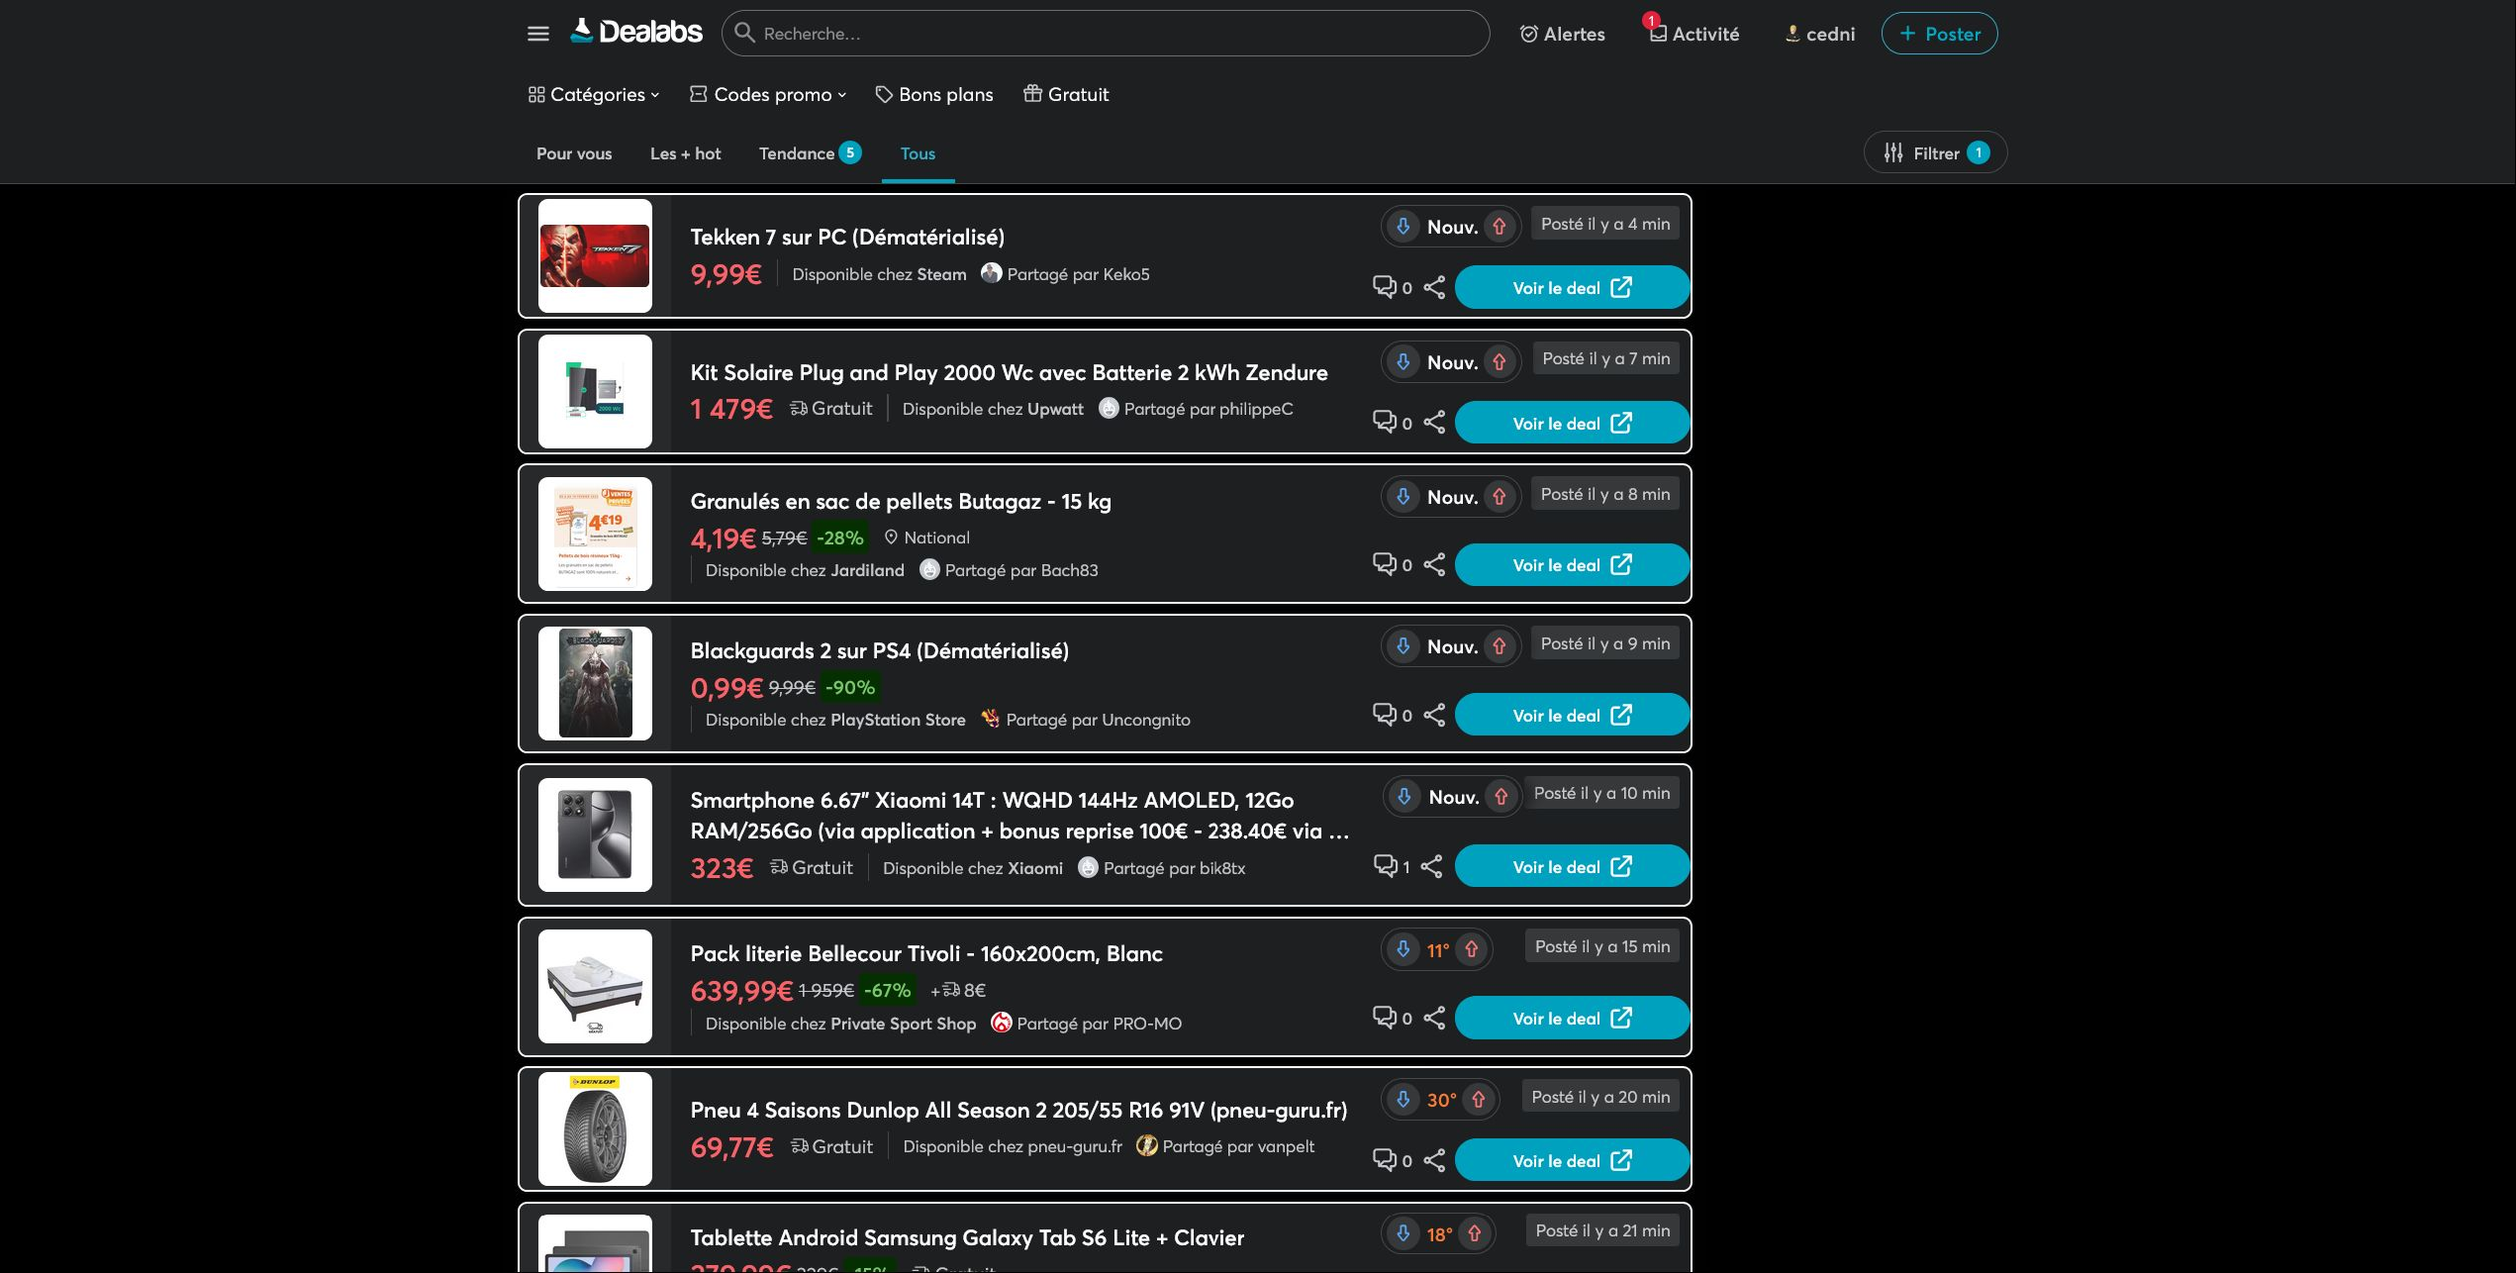
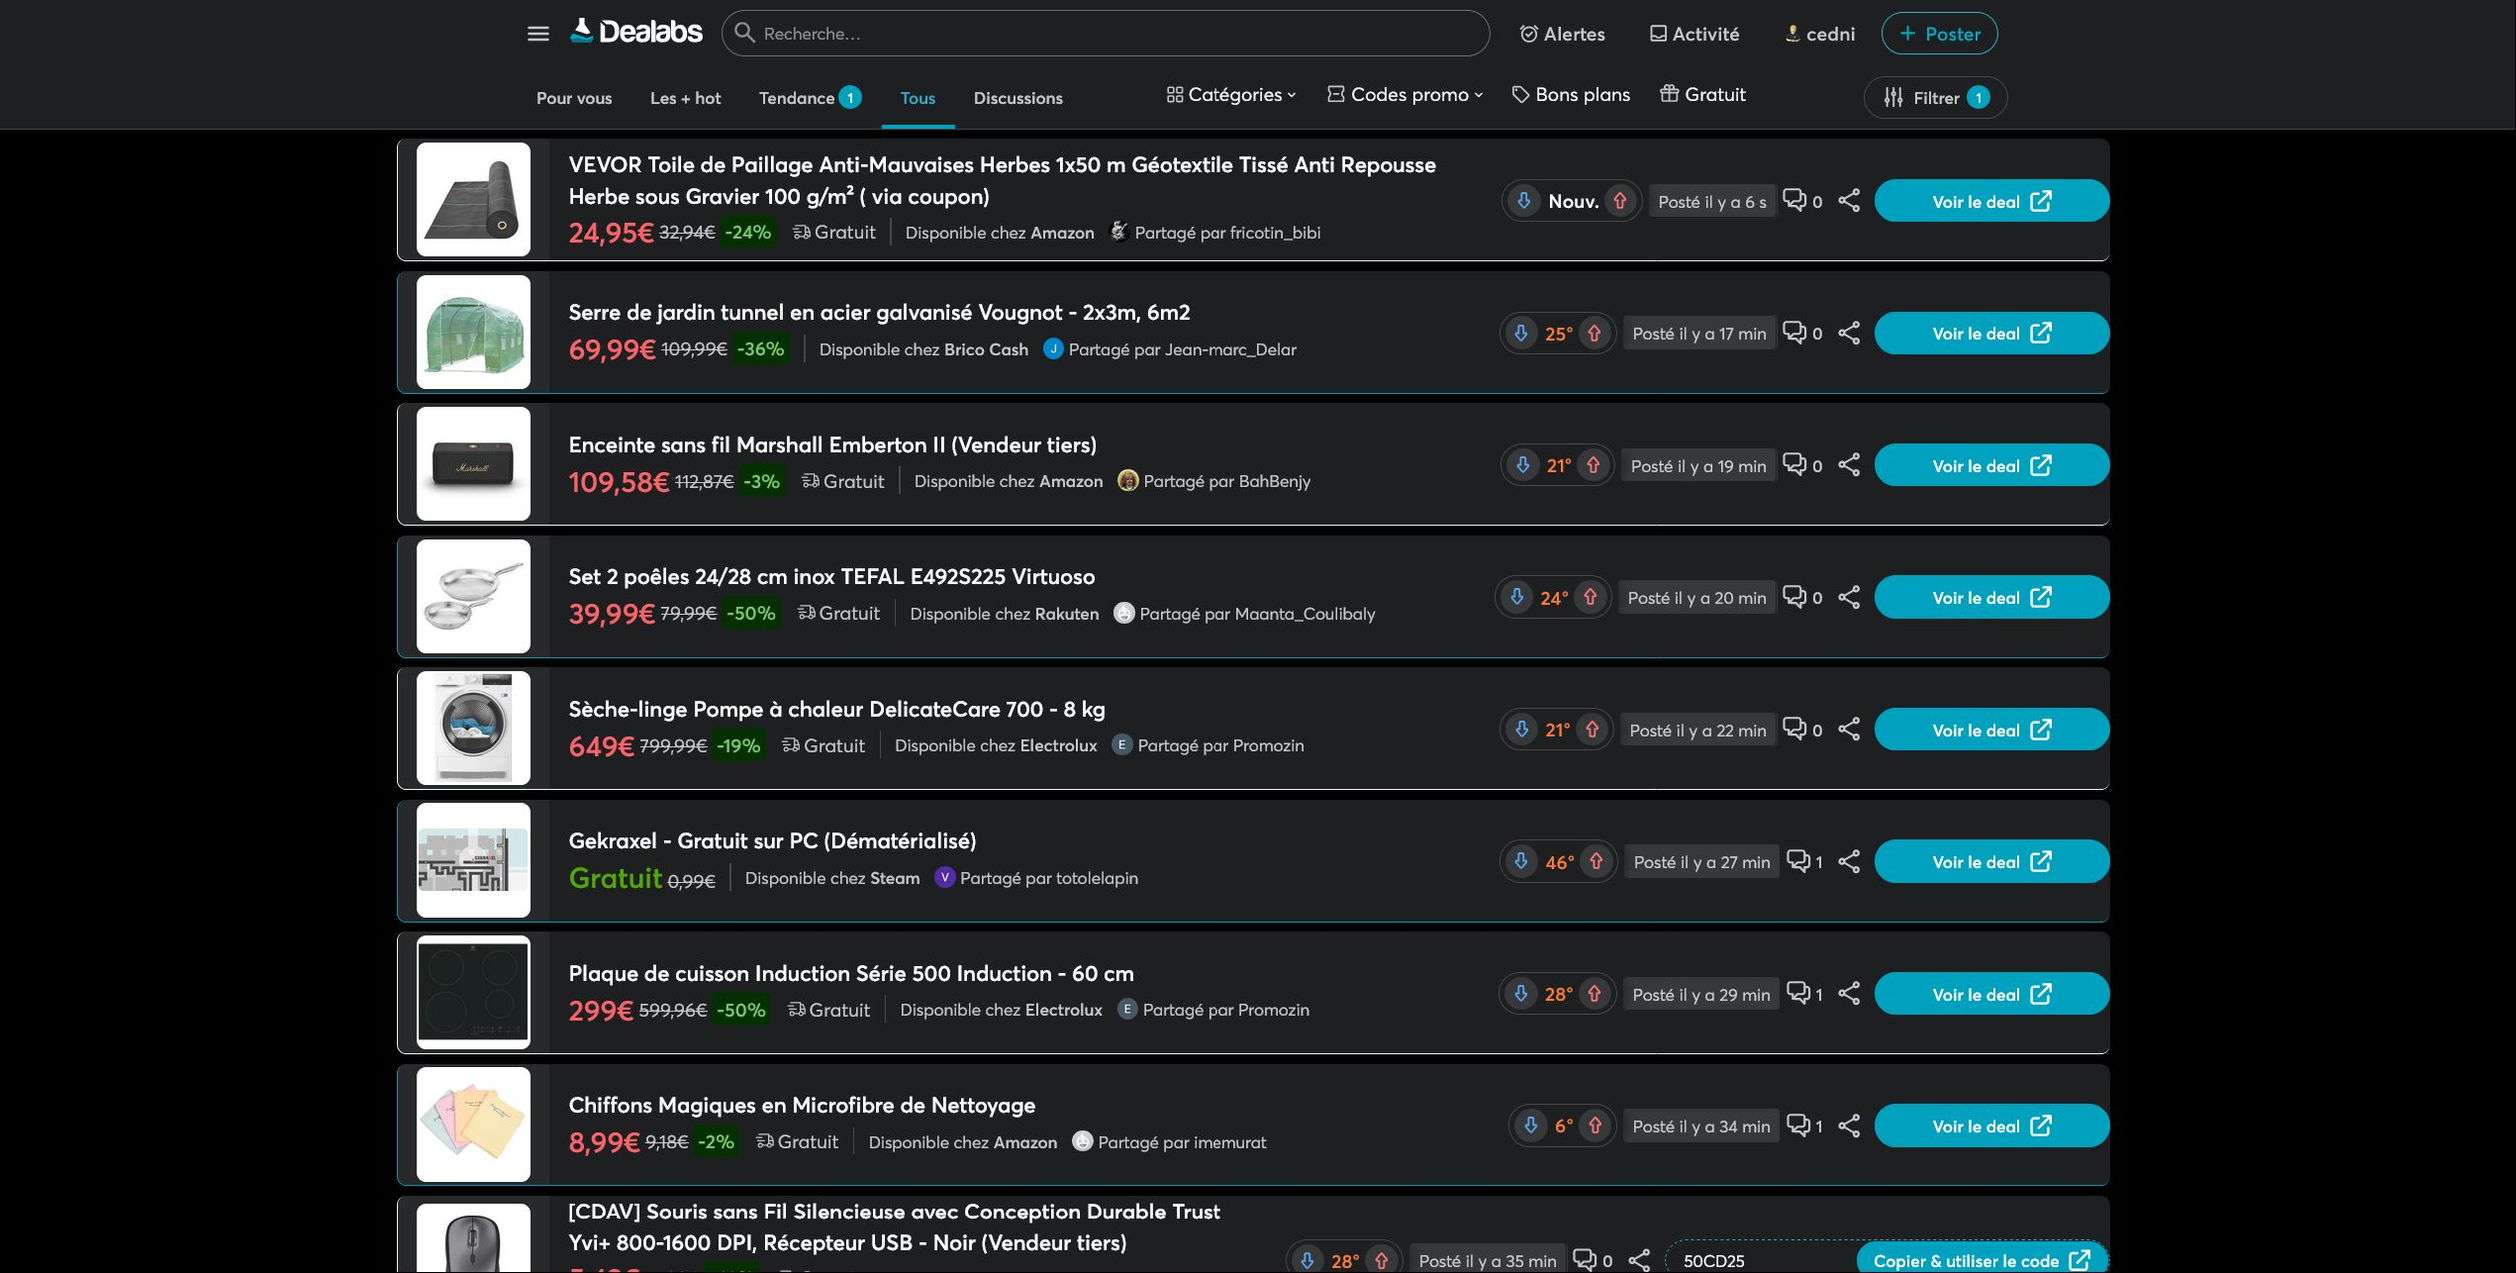
Add files via upload
Mises à jour
0.02:
Mise à jour des // @include

0.03:
Ajout des url d'update

0.05:
Utilisation de MutationObserver au lieu de DOMNodeInserted

0.06:
Menu sur une seule ligne
Ne traiter que les articles non modifiés
Ajout du lien discussions dans le menu

diff --git a/Dealabs_css_2025_02_v0.06.js b/Dealabs_css_2025_02_v0.06.js
@@ -1,0 +1,282 @@
+// ==UserScript==
+// @version     0.06
+// @name        dealabs css
+// @namespace   https://www.dealabs.com/
+// @description	css
+// @author      ced
+// @updateURL   https://greasyfork.org/fr/scripts/526927-dealabs-css
+// @downloadURL https://greasyfork.org/fr/scripts/526927-dealabs-css
+// @include https://www.dealabs.com/highlights*
+// @include https://www.dealabs.com/top*
+// @include https://www.dealabs.com/hot*
+// @include https://www.dealabs.com/nouveaux*
+// @include https://www.dealabs.com/search?merchant-id*
+// @include https://www.dealabs.com/search?q=*
+// @include https://www.dealabs.com/groupe/*
+// @include https://www.dealabs.com/profile/*/keyword-alarms*#feed
+// @include https://www.dealabs.com/profile/*/bons-plans*
+// @include https://www.dealabs.com/profile/*/saved-deals*
+// @include https://www.dealabs.com/profile/*/discussions*
+// @include https://www.dealabs.com/discussions*
+// @include https://www.dealabs.com/discussions-commentes*
+// @grant       none
+// @license     MIT
+// @run-at document-end
+// ==/UserScript==
+////////////////////////////////////////////////////////////////////////////////////////////////////////////////////////////////////////////////////
+
+var nbModifArticles = 0;  // permet d'économiser des ressources en commençant au prochain article non modifié lors du changement de page avec le scroll infini
+
+function modify_css()   
+{     
+if ( nbModifArticles == 0 ) 
+  
+   if ( document.getElementById("threadListingDescriptionPortal") ) // verifier que le menu existe, ce n'est pas le cas sur toutes les pages
+      {
+      // les deux menus sur une seule ligne
+      document.getElementById("tour-filter").after( document.getElementById("header-navigation") );
+   
+      // ajout du lien discussions
+      var myli = document.createElement("li");   
+      myli.setAttribute('class', 'subNavMenu-item--separator');    
+      myli.setAttribute('data-t', 'subNav');  
+      let zhtml  = "<a class=\"subNavMenu-item subNavMenu-link boxAlign-ai--all-c \" href=\"https://www.dealabs.com/discussions\">";
+          zhtml += "<span class=\"box--all-i size--all-s vAlign--all-m\">Discussions</span></a>";
+      myli.innerHTML = zhtml;
+      document.getElementById("tour-filter").children[0].children[0].appendChild(myli);    
+      }
+  
+if ( !window.location.href.includes("https://www.dealabs.com/search") && !window.location.href.includes("https://www.dealabs.com/groupe") )  
+   { 
+   var els_class_listLayout_side = document.getElementsByClassName("listLayout-side");  
+   for (i=nbModifArticles;i<els_class_listLayout_side.length;i++)  
+       {
+       els_class_listLayout_side[i].style.width="0%";
+       els_class_listLayout_side[i].style.minWidth="0em";
+       els_class_listLayout_side[i].style.maxWidth="0em";
+       }  
+   }  
+  
+var els_class_listLayout = document.getElementsByClassName("listLayout");  
+for (i=nbModifArticles;i<els_class_listLayout.length;i++)  
+    {
+    els_class_listLayout[i].style.width="70%";    
+    els_class_listLayout[i].style.maxWidth="unset";
+    }      
+  
+document.getElementsByClassName("listLayout-main")[0].style.width="100%";    
+
+if ( document.getElementById("threadListingDescriptionPortal") )
+     document.getElementById("threadListingDescriptionPortal").parentElement.style.display = "none";//remove();
+ 
+var els_class_threadListCard = document.getElementsByClassName("threadListCard");
+for (i=nbModifArticles;i<els_class_threadListCard.length;i++)  
+    {
+    //els_class_threadListCard[i].style.gridTemplateAreas = '"i b h" "i b  f"';   
+    els_class_threadListCard[i].style.gridTemplateAreas =  '"i b f h"';   
+    els_class_threadListCard[i].style.gridTemplateColumns="8.0rem 1fr"; // "6.5rem 1fr";   // "8rem 1fr";
+    els_class_threadListCard[i].style.minHeight="unset";
+    }  
+ 
+var els_threadListCard_image = document.getElementsByClassName("threadListCard-image");
+for (i=nbModifArticles;i<els_class_threadListCard.length;i++)  
+    {
+    els_threadListCard_image[i].style.padding = "0.2rem 1rem";    
+    }   
+ 
+var els_class_threadListCard_header = document.getElementsByClassName("threadListCard-header");  
+for (i=nbModifArticles;i<els_class_threadListCard_header.length;i++)  
+    {      
+    els_class_threadListCard_header[i].style.gridColumn="unset";
+    els_class_threadListCard_header[i].style.display="flex";
+    //els_class_threadListCard_header[i].style.flexDirection="row-reverse";
+    //els_class_threadListCard_header[i].style.justifyContent="flex-start";
+    els_class_threadListCard_header[i].style.alignItems="center";
+    els_class_threadListCard_header[i].style.padding="unset";
+    els_class_threadListCard_header[i].style.gap="0.25rem"; 
+    els_class_threadListCard_header[i].style.margin="0.1rem 0.25rem 0 0";
+    }  
+   
+var els_class_threadListCard_body = document.getElementsByClassName("threadListCard-body");  
+for (i=nbModifArticles;i<els_class_threadListCard_header.length;i++)  
+    {      
+    els_class_threadListCard_body[i].style.margin="unset";
+    }    
+  
+var els_class_threadListCard_footer  = document.getElementsByClassName("threadListCard-footer");  
+for (i=nbModifArticles;i<els_class_threadListCard_footer.length;i++)  
+    {
+    els_class_threadListCard_footer[i].style.gridColumn="unset";
+    els_class_threadListCard_footer[i].style.display="flex";
+    els_class_threadListCard_footer[i].style.alignItems="center";
+    els_class_threadListCard_footer[i].style.padding="unset"; 
+    els_class_threadListCard_footer[i].style.gap="0.25rem"; 
+    els_class_threadListCard_footer[i].style.margin="0.1rem 0 0 0";
+    }    
+  
+var j=0; 
+var els_articles = document.getElementsByTagName("article");    
+for (i=nbModifArticles;i<els_articles.length;i++)  
+    {
+    if ( !els_articles[i].classList.contains("comment") )
+       {
+       if ( i%2 == 0 )  
+          {
+          els_articles[i].style.borderBottom = "solid 1px white"; 
+          els_articles[i].style.borderLeft   = "solid 1px white"; 
+          }
+       else           
+          {
+          els_articles[i].style.borderBottom = "solid 1px #00a1bf"; 
+          els_articles[i].style.borderLeft   = "solid 1px #00a1bf"; 
+          }
+       //els_articles[i].style.width = "fit-content";
+       }         
+    }  
+  
+var els_class_userHtml  = document.getElementsByClassName("userHtml");   
+for (i=nbModifArticles;i<els_class_userHtml.length;i++)  
+    {
+    if ( !els_class_userHtml[i].parentElement.classList.contains("comment-body") )
+       els_class_userHtml[i].style.display="none";
+    }      
+
+nbModifArticles = els_articles.length;    
+  
+//console.log("fin");
+//console.log("fin "+nbModifArticles+" Articles modifiés"); 
+} 
+////////////////////////////////////////////////////////////////////////////////////////////////////////////////////////////////////////////////////
+////////////////////////////////////////////////////////////////////////////////////////////////////////////////////////////////////////////////////
+
+// Select the node that will be observed for mutations
+const targetNode = document.body;  // document.getElementById("pageContent"); //document.getElementById("toc-target-deals");
+
+// Options for the observer (which mutations to observe)
+const config = { attributes: false, childList: true, subtree: true };
+
+// Callback function to execute when mutations are observed
+const callback = (mutationList, observer) => { for (const mutation of mutationList) if ( mutation.type === "childList" )  modify_css(); };
+
+// Create an observer instance linked to the callback function
+const observer = new MutationObserver(callback);
+
+// Start observing the target node for configured mutations
+observer.observe(targetNode, config);
+
+// Later, you can stop observing
+//observer.disconnect();
+
+////////////////////////////////////////////////////////////////////////////////////////////////////////////////////////////////////////////////////
+////////////////////////////////////////////////////////////////////////////////////////////////////////////////////////////////////////////////////
+////////////////////////////////////////////////////////////////////////////////////////////////////////////////////////////////////////////////////
+////////////////////////////////////////////////////////////////////////////////////////////////////////////////////////////////////////////////////
+////////////////////////////////////////////////////////////////////////////////////////////////////////////////////////////////////////////////////
+////////////////////////////////////////////////////////////////////////////////////////////////////////////////////////////////////////////////////
+////////////////////////////////////////////////////////////////////////////////////////////////////////////////////////////////////////////////////
+////////////////////////////////////////////////////////////////////////////////////////////////////////////////////////////////////////////////////
+////////////////////////////////////////////////////////////////////////////////////////////////////////////////////////////////////////////////////
+////////////////////////////////////////////////////////////////////////////////////////////////////////////////////////////////////////////////////
+////////////////////////////////////////////////////////////////////////////////////////////////////////////////////////////////////////////////////
+////////////////////////////////////////////////////////////////////////////////////////////////////////////////////////////////////////////////////
+////////////////////////////////////////////////////////////////////////////////////////////////////////////////////////////////////////////////////
+////////////////////////////////////////////////////////////////////////////////////////////////////////////////////////////////////////////////////
+////////////////////////////////////////////////////////////////////////////////////////////////////////////////////////////////////////////////////
+
+
+/*
+////////////////////////////////////////////////////////////////////////////////////////////////////////////////////////////////////////////////////
+modify_css();
+document.addEventListener("DOMNodeInserted", modify_css , false);
+
+////////////////////////////////////////////////////////////////////////////////////////////////////////////////////////////////////////////////////
+////////////////////////////////////////////////////////////////////////////////////////////////////////////////////////////////////////////////////  
+function f_Over(e)   
+{
+console.log("over  "+e.target.tagName+" _  "+e.target.className);
+ 
+if ( e.target.tagName == "article")
+for ( const child of e.target.children ) 
+    {
+    if ( child.classList.contains('userHtml')) 
+       {
+       child.style.display="";
+       } 
+    } 
+}   
+////////////////////////////////////////////////////////////////////////////////////////////////////////////////////////////////////////////////////  
+function f_Out(e)   
+{  
+console.log("out  "+e.target.tagName+" _  "+e.target.className);
+  
+if ( e.target.tagName == "article")
+for ( const child of e.target.children ) 
+    {
+    if ( child.classList.contains('userHtml')) 
+       {
+       child.style.display="none";
+       } 
+    } 
+}   
+////////////////////////////////////////////////////////////////////////////////////////////////////////////////////////////////////////////////////  
+//document.addEventListener("DOMNodeInserted", function() { if ( justAddDescription == false ) modify_css(); }, false);
+//document.addEventListener("mouseover", function (e) { f_Over(e); }, false);
+//document.addEventListener("mouseout" , function (e) { f_Out(e);  }, false);
+////////////////////////////////////////////////////////////////////////////////////////////////////////////////////////////////////////////////////
+////////////////////////////////////////////////////////////////////////////////////////////////////////////////////////////////////////////////////
+////////////////////////////////////////////////////////////////////////////////////////////////////////////////////////////////////////////////////
+////////////////////////////////////////////////////////////////////////////////////////////////////////////////////////////////////////////////////
+////////////////////////////////////////////////////////////////////////////////////////////////////////////////////////////////////////////////////
+////////////////////////////////////////////////////////////////////////////////////////////////////////////////////////////////////////////////////  
+// https://fr.javascript.info/mousemove-mouseover-mouseout-mouseenter-mouseleave
+// https://developer.mozilla.org/en-US/docs/Web/API/MutationObserver
+
+
+/*
+var zImg = '';
+for ( const child of els_articles[i].children ) 
+    {
+    j++;
+    console.log(j+"  "+child.tagName+"  "+child.className); 
+   
+    if ( child.classList.contains('thread-image') )
+       {
+       //zImg=child;
+       //console.log(zImg) 
+       //console.log("zImg") ;
+       } 
+                                               
+    if ( child.classList.contains('userHtml') ) 
+       {
+       //child.style.display="";
+       console.log("child.textContent");
+       //zImg.setAttribute('title',child.textContent);
+       }         
+    }   
+
+els_articles[i].onmouseover = function(e) { // onmouseover onmouseout onmousemove
+                                           for ( const child of e.target.children ) 
+                                               {
+                                               if ( child.classList.contains('userHtml')) 
+                                                  {
+                                                  justAddDescription = true;
+                                                  console.log(child.tagName);
+                                                  child.style.display="";
+                                                  justAddDescription = false;
+                                                  } 
+                                               } 
+                                           };
+  
+els_articles[i].onmouseout  = function(e) { // onmouseover onmouseout onmousemove
+                                           for ( const child of e.target.children ) 
+                                               {
+                                               if ( child.classList.contains('userHtml')) 
+                                                  {
+                                                  justAddDescription = true;
+                                                  console.log(child.tagName);
+                                                  child.style.display="";
+                                                  justAddDescription = false;
+                                                  } 
+                                               } 
+                                           };    
+*/
